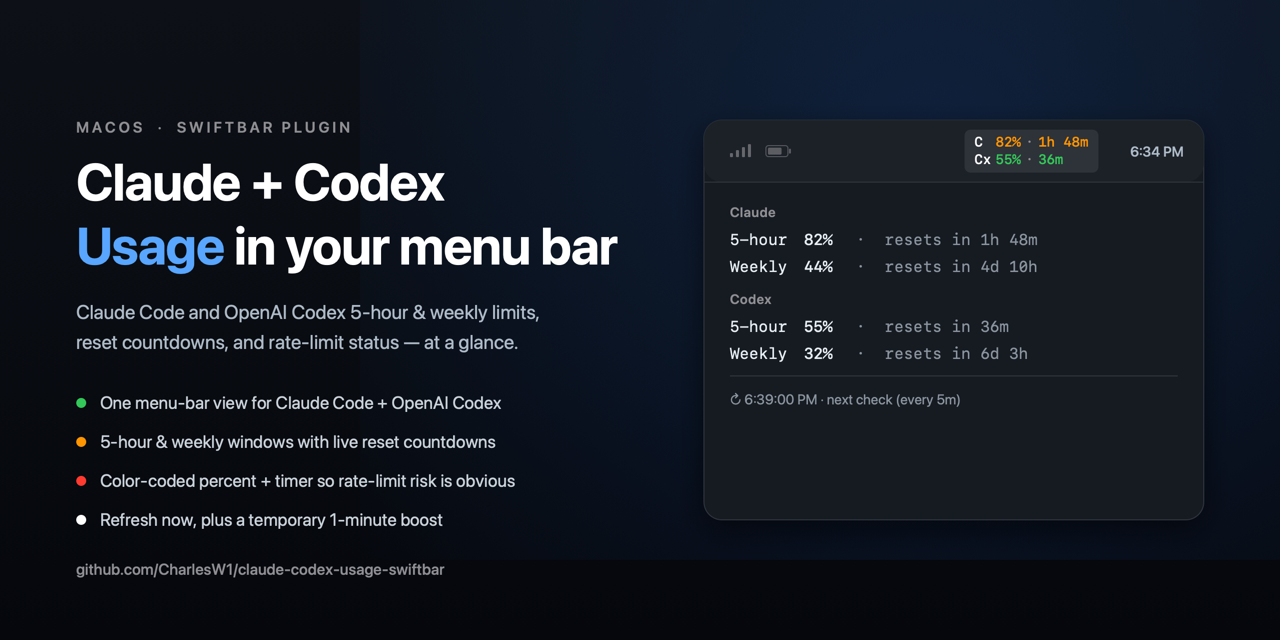
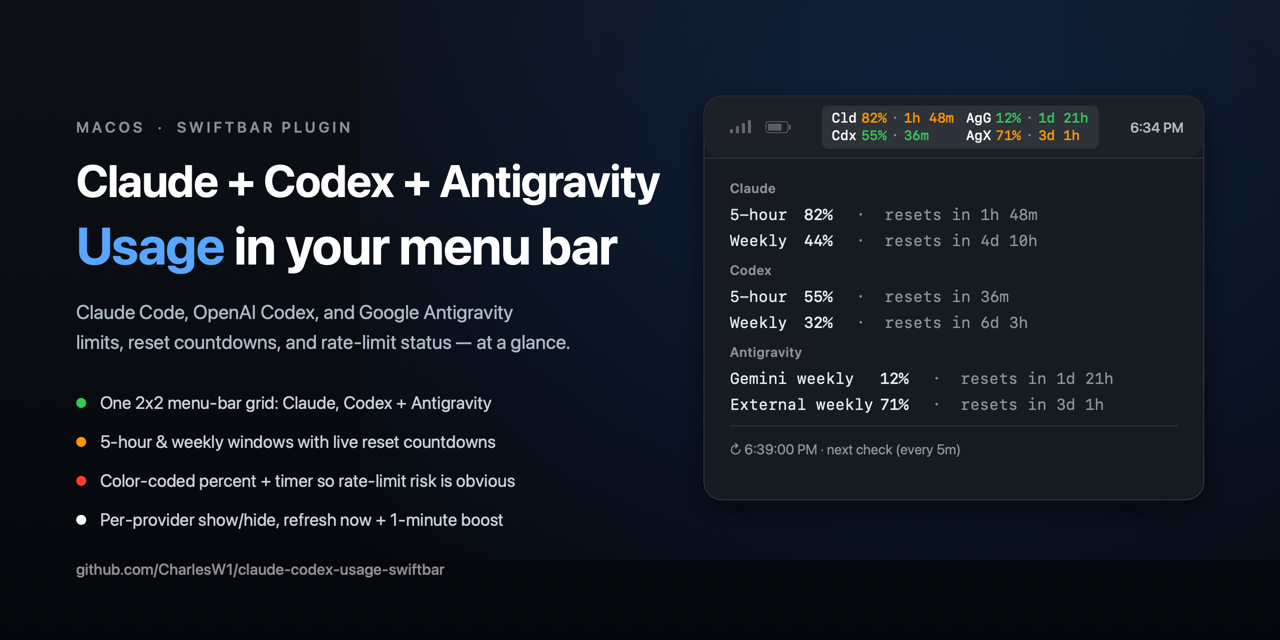
docs: refresh visuals and token-read notes for three providers
- Regenerate the social preview via assets/social-preview.swift: title,
  tagline, and feature bullets now cover Antigravity; the mock card
  shows the 2x2 Cld/Cdx/AgG/AgX chip and an Antigravity dropdown
  section.
- Replace menu-bar-sample.png with a sample built from the plugin's
  real rendered 2x2 grid output.
- README feature bullet now lists all local token sources, including
  the Claude credentials-file fallback and Antigravity's token file.

diff --git a/assets/social-preview.swift b/assets/social-preview.swift
@@ -84,22 +84,24 @@ let LX: CGFloat = 76
 // eyebrow
 text("MACOS  ·  SWIFTBAR PLUGIN", LX, 118, 15, GRAY, weight: .semibold, tracking: 3)
 
-// title
-text("Claude + Codex", LX, 150, 52, WHITE, weight: .bold, tracking: -0.5)
+// title (providers line auto-sized to fit the left column)
+var titleSize: CGFloat = 52
+while textW("Claude + Codex + Antigravity", titleSize, weight: .bold, tracking: -0.5) > 596 { titleSize -= 1 }
+text("Claude + Codex + Antigravity", LX, 150 + (52 - titleSize)/2, titleSize, WHITE, weight: .bold, tracking: -0.5)
 // second line with accent on "Usage"
 let uw = text("Usage", LX, 214, 52, "#58a6ff", weight: .bold, tracking: -0.5)
 text(" in your menu bar", LX + uw, 214, 52, WHITE, weight: .bold, tracking: -0.5)
 
 // tagline (two lines)
-text("Claude Code and OpenAI Codex 5-hour & weekly limits,", LX, 300, 19.5, "#adbac7")
-text("reset countdowns, and rate-limit status — at a glance.", LX, 330, 19.5, "#adbac7")
+text("Claude Code, OpenAI Codex, and Google Antigravity", LX, 300, 19.5, "#adbac7")
+text("limits, reset countdowns, and rate-limit status — at a glance.", LX, 330, 19.5, "#adbac7")
 
 // feature bullets
 let feats: [(String, String)] = [
-    (GREEN,  "One menu-bar view for Claude Code + OpenAI Codex"),
+    (GREEN,  "One 2x2 menu-bar grid: Claude, Codex + Antigravity"),
     (ORANGE, "5-hour & weekly windows with live reset countdowns"),
     (RED,    "Color-coded percent + timer so rate-limit risk is obvious"),
-    (WHITE,  "Refresh now, plus a temporary 1-minute boost"),
+    (WHITE,  "Per-provider show/hide, refresh now + 1-minute boost"),
 ]
 var fy: CGFloat = 392
 for (c, s) in feats {
@@ -114,7 +116,7 @@ text("github.com/CharlesW1/claude-codex-usage-swiftbar", LX, 560, 15.5, GRAY, we
 // =========================================================
 // RIGHT: menu-bar + dropdown mock card
 // =========================================================
-let cardX: CGFloat = 704, cardTop: CGFloat = 120, cardW: CGFloat = 500, cardH: CGFloat = 400
+let cardX: CGFloat = 704, cardTop: CGFloat = 96, cardW: CGFloat = 500, cardH: CGFloat = 404
 let cardR: CGFloat = 18
 // drop shadow
 ctx.saveGState()
@@ -163,50 +165,68 @@ text(clock, cardX + cardW - 20 - clockW, cardTop + 23, 14, "#adbac7", weight: .m
 
 // ---- the chip (two colored rows), placed left of the clock ----
 struct Row { let label, value, vcol, timer, tcol: String }
-let rows = [ Row(label: "C",  value: "82%", vcol: ORANGE, timer: "1h 48m", tcol: ORANGE),
-             Row(label: "Cx", value: "55%", vcol: GREEN,  timer: "36m",    tcol: GREEN) ]
+// 2x2 grid: left column Claude/Codex, right column Antigravity Gemini/External
+let cols: [[Row]] = [
+    [ Row(label: "Cld", value: "82%", vcol: ORANGE, timer: "1h 48m", tcol: ORANGE),
+      Row(label: "Cdx", value: "55%", vcol: GREEN,  timer: "36m",    tcol: GREEN) ],
+    [ Row(label: "AgG", value: "12%", vcol: GREEN,  timer: "1d 21h", tcol: GREEN),
+      Row(label: "AgX", value: "71%", vcol: ORANGE, timer: "3d 1h",  tcol: ORANGE) ],
+]
 let cf: CGFloat = 13.5           // chip font pt
 let spc: CGFloat = cf * 0.34
+let colGap: CGFloat = cf * 0.9
 let sepW = textW("·", cf, mono: true)
-let maxLbl = rows.map { textW($0.label, cf, weight: .medium, mono: true) }.max()!
-let maxVal = rows.map { textW($0.value, cf, weight: .medium, mono: true) }.max()!
-let maxTmr = rows.map { textW($0.timer, cf, weight: .medium, mono: true) }.max()!
-let chipW = maxLbl + spc + maxVal + spc + sepW + spc + maxTmr
+struct ColM { let lbl, val, tmr, w: CGFloat }
+let metrics: [ColM] = cols.map { rows in
+    let l = rows.map { textW($0.label, cf, weight: .medium, mono: true) }.max()!
+    let v = rows.map { textW($0.value, cf, weight: .medium, mono: true) }.max()!
+    let t = rows.map { textW($0.timer, cf, weight: .medium, mono: true) }.max()!
+    return ColM(lbl: l, val: v, tmr: t, w: l + spc + v + spc + sepW + spc + t)
+}
+let chipW = metrics[0].w + colGap + metrics[1].w
 let chipRight = cardX + cardW - 40 - clockW - 22
 let chipX = chipRight - chipW
 let rowH = cf + 4
 let chipTop = cardTop + (stripH - rowH*2)/2
 // selected-item highlight behind chip
 roundRect(chipX - 10, chipTop - 4, chipW + 20, rowH*2 + 8, 6, fill: "#ffffff", fillAlpha: 0.08)
-for (i, r) in rows.enumerated() {
-    let ry = chipTop + CGFloat(i) * rowH
-    let lx = chipX
-    let vx = lx + maxLbl + spc
-    let sx = vx + maxVal + spc
-    let tx = sx + sepW + spc
-    text(r.label, lx, ry, cf, WHITE, weight: .medium, mono: true)
-    text(r.value, vx, ry, cf, r.vcol, weight: .medium, mono: true)
-    text("·",     sx, ry, cf, GRAY,  weight: .medium, mono: true)
-    text(r.timer, tx, ry, cf, r.tcol, weight: .medium, mono: true)
+var colX = chipX
+for (ci, rows) in cols.enumerated() {
+    let m = metrics[ci]
+    for (i, r) in rows.enumerated() {
+        let ry = chipTop + CGFloat(i) * rowH
+        let lx = colX
+        let vx = lx + m.lbl + spc
+        let sx = vx + m.val + spc
+        let tx = sx + sepW + spc
+        text(r.label, lx, ry, cf, WHITE, weight: .medium, mono: true)
+        text(r.value, vx, ry, cf, r.vcol, weight: .medium, mono: true)
+        text("·",     sx, ry, cf, GRAY,  weight: .medium, mono: true)
+        text(r.timer, tx, ry, cf, r.tcol, weight: .medium, mono: true)
+    }
+    colX += m.w + colGap
 }
 
 // --- dropdown content (default text color; matches real design) ---
 var dy = cardTop + stripH + 22
 let dLX = cardX + 26
-func windowLine(_ label: String, _ pct: String, _ reset: String, _ y: CGFloat) {
+func windowLine(_ label: String, _ pct: String, _ reset: String, _ y: CGFloat, labelW: CGFloat = 74) {
     let mono = true
     let lw = text(label, dLX, y, 15.5, "#e6edf3", mono: mono)
     _ = lw
-    let pctX = dLX + 74
+    let pctX = dLX + labelW
     text(pct, pctX, y, 15.5, "#e6edf3", weight: .medium, mono: mono)
     text("·  resets in " + reset, pctX + 52, y, 15.5, "#8b949e", mono: mono)
 }
-text("Claude", dLX, dy, 13.5, GRAY, weight: .semibold, tracking: 0.5); dy += 26
-windowLine("5-hour", "82%", "1h 48m", dy); dy += 27
-windowLine("Weekly", "44%", "4d 10h", dy); dy += 34
-text("Codex", dLX, dy, 13.5, GRAY, weight: .semibold, tracking: 0.5); dy += 26
-windowLine("5-hour", "55%", "36m", dy); dy += 27
-windowLine("Weekly", "32%", "6d 3h", dy); dy += 32
+text("Claude", dLX, dy, 13.5, GRAY, weight: .semibold, tracking: 0.5); dy += 25
+windowLine("5-hour", "82%", "1h 48m", dy); dy += 26
+windowLine("Weekly", "44%", "4d 10h", dy); dy += 31
+text("Codex", dLX, dy, 13.5, GRAY, weight: .semibold, tracking: 0.5); dy += 25
+windowLine("5-hour", "55%", "36m", dy); dy += 26
+windowLine("Weekly", "32%", "6d 3h", dy); dy += 31
+text("Antigravity", dLX, dy, 13.5, GRAY, weight: .semibold, tracking: 0.5); dy += 25
+windowLine("Gemini weekly", "12%", "1d 21h", dy, labelW: 150); dy += 26
+windowLine("External weekly", "71%", "3d 1h", dy, labelW: 150); dy += 31
 // separator
 col("#30363d").setStroke()
 let ln = NSBezierPath()

diff --git a/README.md b/README.md
@@ -34,8 +34,9 @@ comparable.
 - Color-coded usage and reset timing so rate-limit risk is visible at a glance.
 - Dropdown detail for Claude `/usage`, Codex `/status`, and Antigravity windows.
 - Manual **Refresh now** plus a temporary 1-minute refresh boost for 30 minutes.
-- Local-only token reads from the macOS Keychain and `~/.codex/auth.json`; no
-  Python packages required.
+- Local-only token reads from the macOS Keychain (or `~/.claude/.credentials.json`),
+  `~/.codex/auth.json`, and Antigravity's local token file; no Python packages
+  required.
 
 ## Dependencies
 